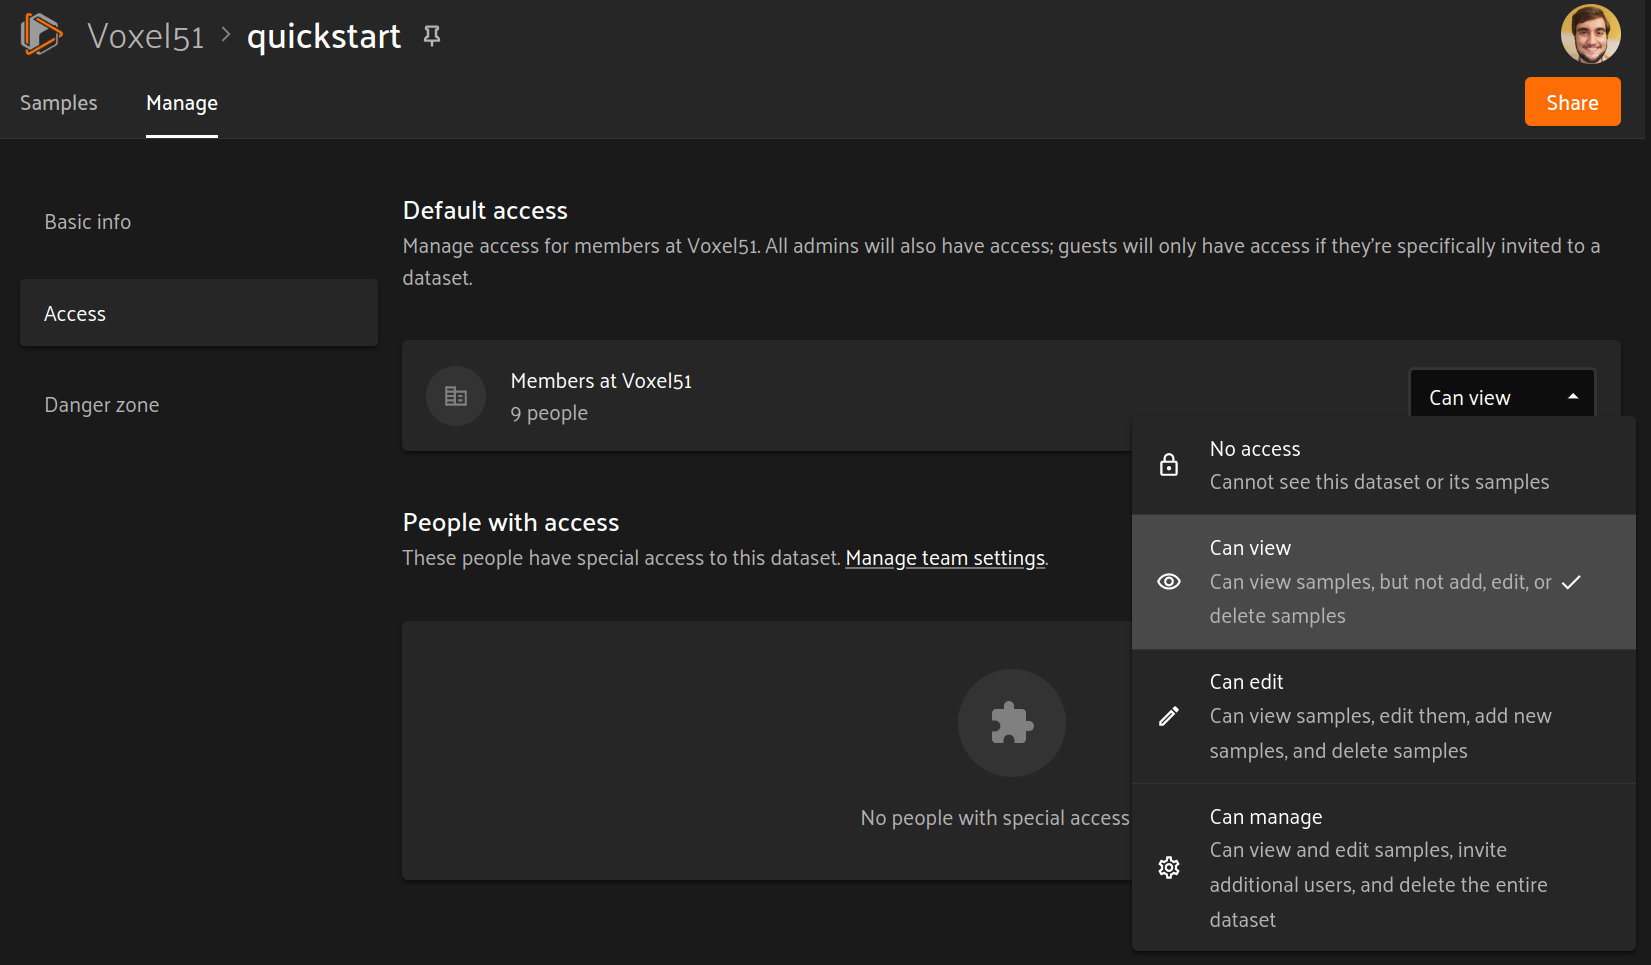
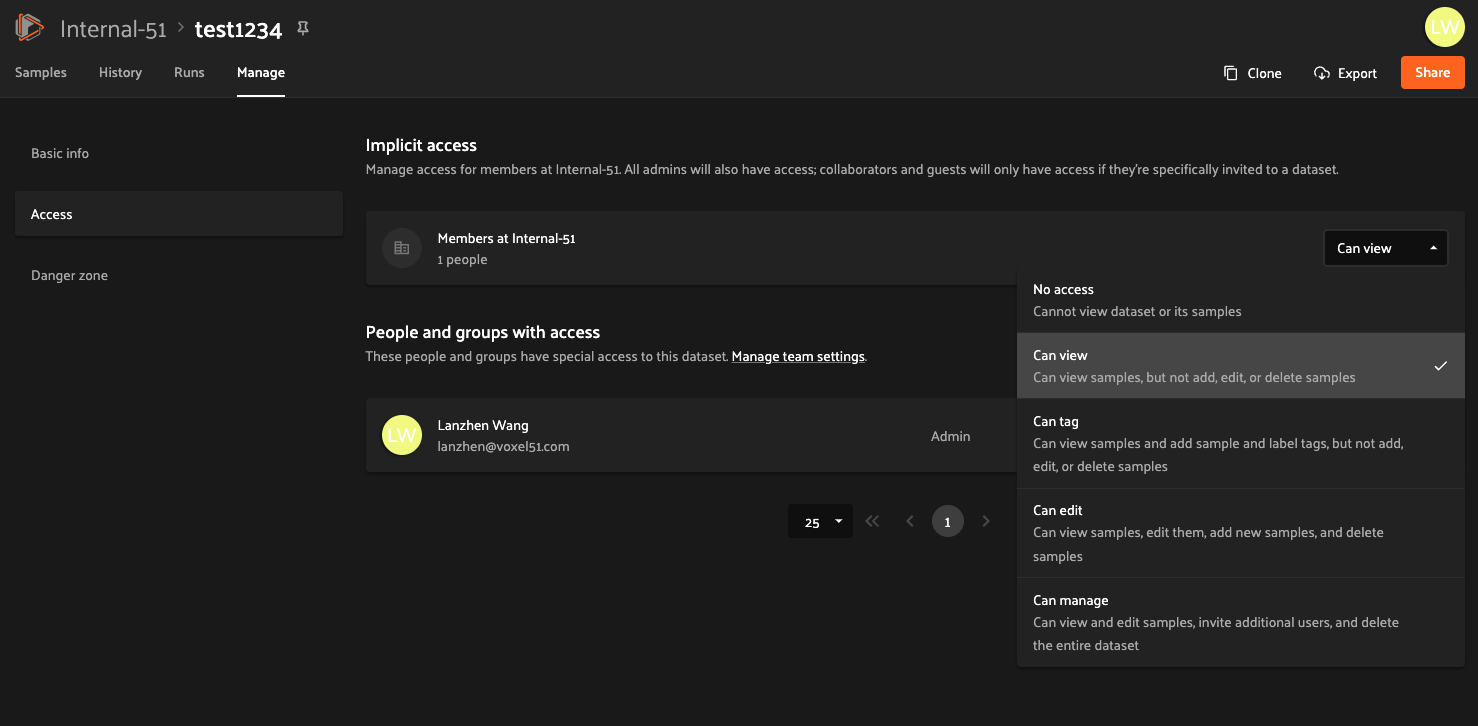
update screenshots and default access to implicit access

diff --git a/docs/source/teams/roles_and_permissions.rst b/docs/source/teams/roles_and_permissions.rst
@@ -171,17 +171,17 @@ following sources:
 
 .. _teams-default-access:
 
-Default access
---------------
+Implicit access
+----------------
 
-All datasets have a default access level, which defines a minimum permission
-level that all Members have on the dataset.
+All datasets have an implicit access level, also known as the default access, 
+which defines a minimum permission level that all Members have on the dataset.
 
 A dataset's default access level can be set to **No access**, **Can view**,
 **Can tag**, **Can edit**, or **Can manage** as shown below:
 
 .. image:: /images/teams/dataset_default_access.png
-   :alt: default-access
+   :alt: implicit-access
    :align: center
 
 .. note::
